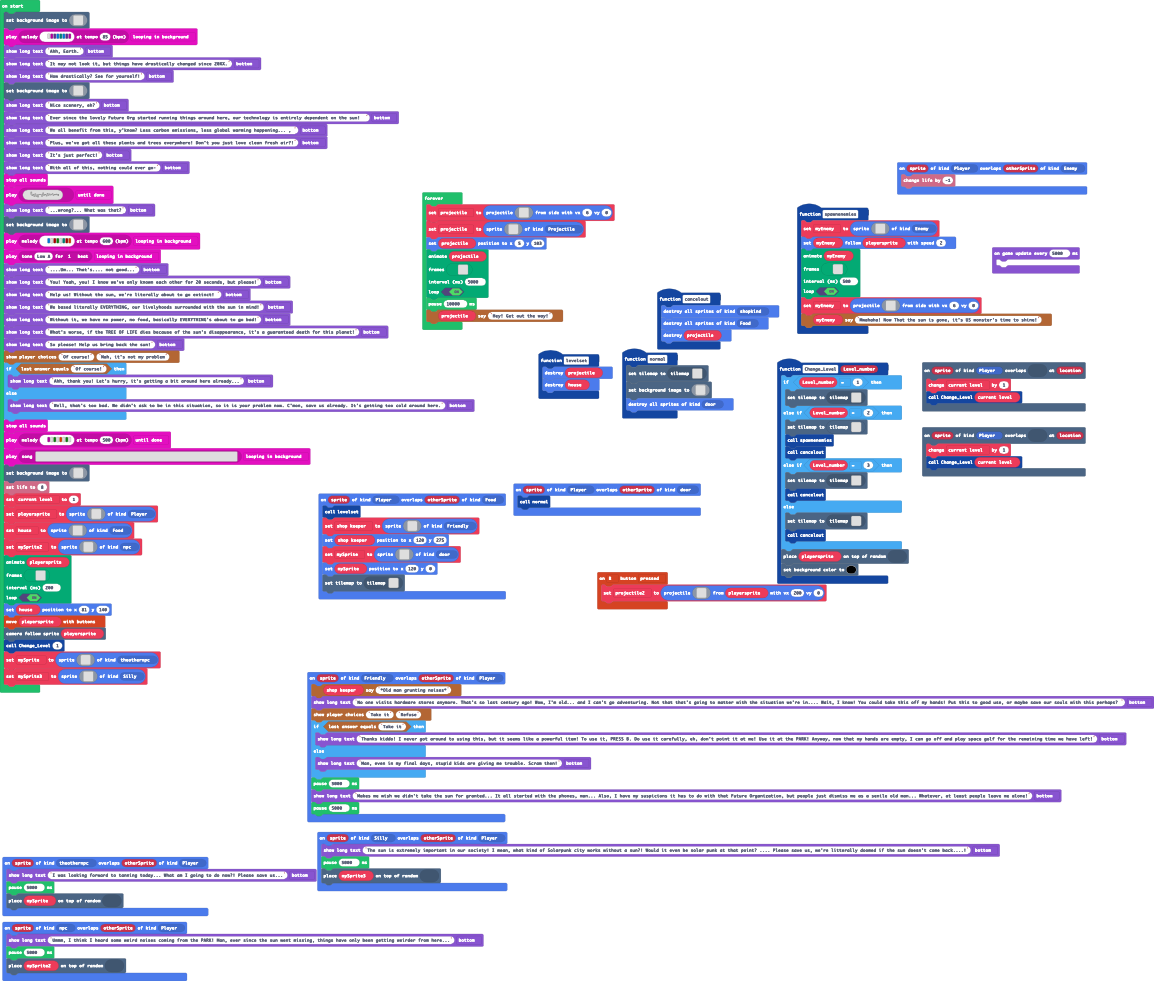
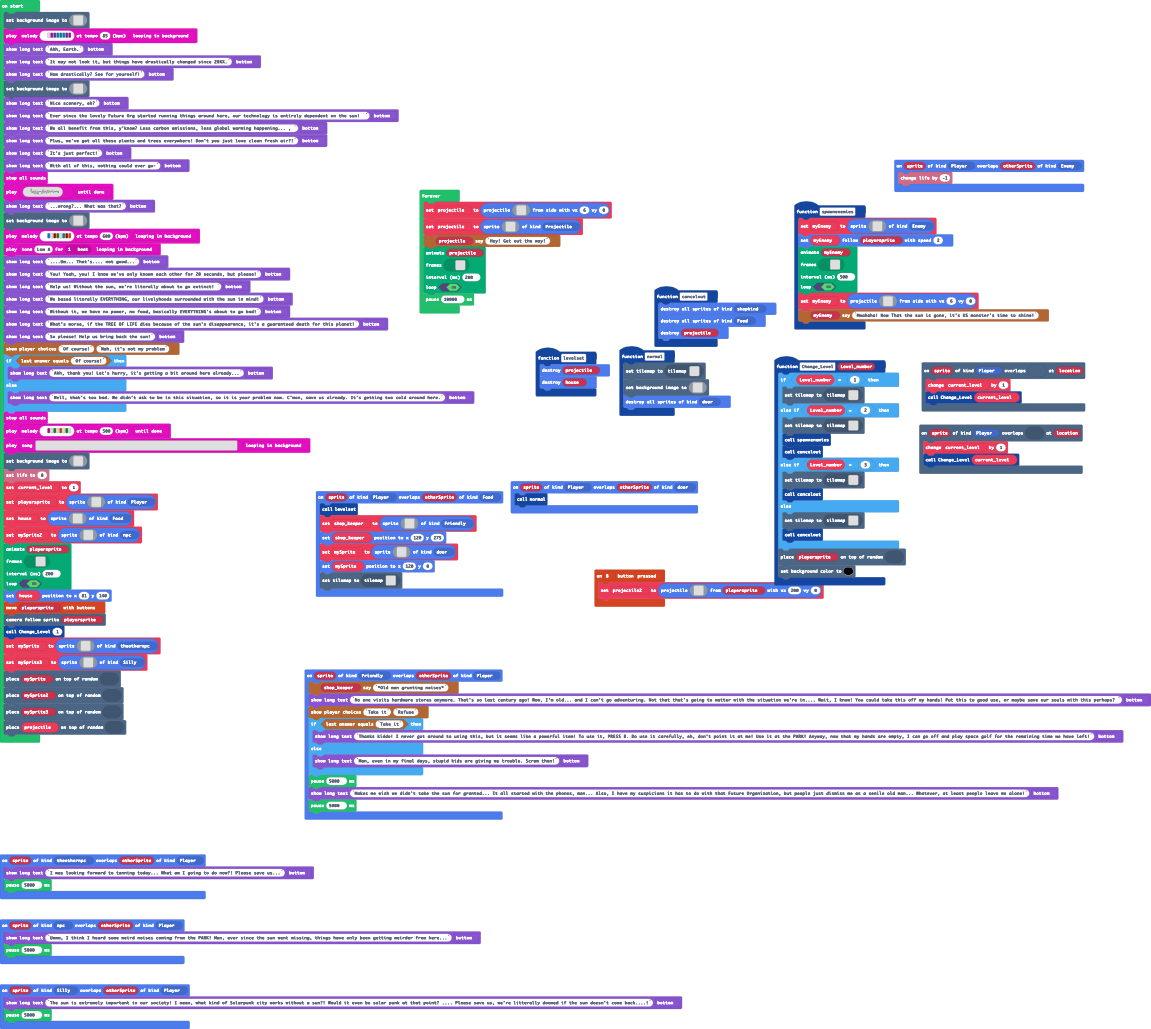
Update main.blocks, main.ts, tilemap.g.jres, tilemap.g.ts

diff --git a/tilemap.g.ts b/tilemap.g.ts
@@ -176,25 +176,6 @@ namespace myTiles {
 . . . . . . . . . . . . . . . . 
 . . . . . . . . . . . . . . . . 
 `, [myTiles.transparency16], TileScale.Sixteen);
-            case "level1":
-            case "level1":return tiles.createTilemap(hex`1000100004040404040404040404040404040404040101050404040404040404050101040404040404040404040404040404040404020404040406060604040404040404040404020406060606060202040404040404040406060606060606020404040404040406060606060606060604040404040404060606060606060606040404040404040406060606060606060404040407040804040606060606060404040404040404040404060606060408040404040404040404040404040404030404040404040402020404040404040404040404040404050202040404040402020404040401010504040404040204040404040404040404040404040404040404040404`, img`
-2 2 2 2 2 2 2 2 2 2 2 2 2 2 2 2 
-2 . . . . . . . . . . . . . . 2 
-2 . . . . . . . . . . . . . . 2 
-2 . . . . . . . . . . . . . . 2 
-2 . . . . . . . . . . . . . . 2 
-. . . . . . . . . . . . . . . 2 
-. . . . . . . . . . . . . . . 2 
-. . . . . . . . . . . . . . . 2 
-. . . . . . . . . . . . . . . 2 
-. . . . . . . . . . . . . . . 2 
-. . . . . . . . . . . . . . . 2 
-. . . . . . . . . . . . . . . 2 
-. . . . . . . . . . . . . . . 2 
-. . . . . . . . . . . . . . . 2 
-2 . . . . . . . . . . . . . . 2 
-2 2 2 2 2 2 2 2 2 2 2 2 2 2 2 2 
-`, [myTiles.transparency16,myTiles.tile12,myTiles.tile5,myTiles.tile3,myTiles.tile32,myTiles.tile33,sprites.castle.tilePath5,myTiles.tile34,myTiles.tile31], TileScale.Sixteen);
             case "level11":
             case "level11":return tiles.createTilemap(hex`1000100000000000000000000000000000000000000000000000000000000000000000000000000000000000000000000000000000000000000000000000000000000000000000000000000000000000000000000000000000000000000000000000000000000000000000000000000000000000000000000000000000000000000000000000000000000000000000000000000000000000000000000000000000000000000000000000000000000000000000000000000000000000000000000000000000000000000000000000000000000000000000000000000000000000000000000000000000000000000000000000000000000000000000000000000000000000`, img`
 . . . . . . . . . . . . . . . . 
@@ -309,25 +290,6 @@ namespace myTiles {
 . . . . . . . . . . . . . . . . 
 . . . . . . . . . . . . . . . . 
 `, [myTiles.transparency16], TileScale.Sixteen);
-            case "level2":
[1 lines of base64/hex data omitted]
-2 2 2 2 2 2 2 . . . 2 2 2 2 2 2 
-2 . . . . . . . . . . . . . . 2 
-2 . . . . . . . . . . . 2 2 . . 
-2 . . . . . . . . . . . . . . . 
-2 . . . . . . . . . . . . . . . 
-2 . . . . . . . . 2 2 . . . . . 
-2 . . . . . . . . . . . . . . . 
-2 . . . . . . . . . . . . . . . 
-2 . . . . . . . . . . . . . . 2 
-2 2 . 2 . 2 . 2 . . . . . . . . 
-2 . . . . . . . . . . . . . . . 
-2 . . . . . . . . 2 . 2 . . . . 
-2 . . . . . . . . . . . . . . 2 
-2 . . . . . . . . . . . . . . 2 
-2 . . . . . . . . . . . . . . 2 
-2 2 2 2 2 2 2 2 2 2 2 2 2 2 2 2 
-`, [myTiles.transparency16,myTiles.tile16,myTiles.tile17,myTiles.tile19,myTiles.tile2,myTiles.tile12,myTiles.tile24,myTiles.tile3,myTiles.tile10,myTiles.tile29,myTiles.tile30,myTiles.tile31,myTiles.tile32,sprites.builtin.forestTiles0,myTiles.tile38,myTiles.tile35], TileScale.Sixteen);
             case "level3":
[1 lines of base64/hex data omitted]
 . . 2 2 . . . . . . . . 2 2 . 
@@ -370,6 +332,63 @@ namespace myTiles {
 . . . . . . . . . . . . . . . . 
 . . . . . . . . . . . . . . . . 
 `, [myTiles.transparency16], TileScale.Sixteen);
+            case "level16":
+            case "level16":return tiles.createTilemap(hex`1000100000000000000000000000000000000000000000000000000000000000000000000000000000000000000000000000000000000000000000000000000000000000000000000000000000000000000000000000000000000000000000000000000000000000000000000000000000000000000000000000000000000000000000000000000000000000000000000000000000000000000000000000000000000000000000000000000000000000000000000000000000000000000000000000000000000000000000000000000000000000000000000000000000000000000000000000000000000000000000000000000000000000000000000000000000000000`, img`
+. . . . . . . . . . . . . . . . 
+. . . . . . . . . . . . . . . . 
+. . . . . . . . . . . . . . . . 
+. . . . . . . . . . . . . . . . 
+. . . . . . . . . . . . . . . . 
+. . . . . . . . . . . . . . . . 
+. . . . . . . . . . . . . . . . 
+. . . . . . . . . . . . . . . . 
+. . . . . . . . . . . . . . . . 
+. . . . . . . . . . . . . . . . 
+. . . . . . . . . . . . . . . . 
+. . . . . . . . . . . . . . . . 
+. . . . . . . . . . . . . . . . 
+. . . . . . . . . . . . . . . . 
+. . . . . . . . . . . . . . . . 
+. . . . . . . . . . . . . . . . 
+`, [myTiles.transparency16], TileScale.Sixteen);
+            case "level1":
+            case "level1":return tiles.createTilemap(hex`1000100004040404040404040404040404040404040101050404040404040404050101040404040404040404040404040404040404020404040406060604040404040404040404020406060606060202040404040404040406060606060606020404040404040406060606060606060604040404040404060606060606060606040404040606040406060606060606060404040407060606060606060606060404040404060604040404060606060408040404040404040404040404040404030404040404040402020404040404040404040404040404050202040404040402020404040401010504040404040204040404040404040404040404040404040404040404`, img`
+2 2 2 2 2 2 2 2 2 2 2 2 2 2 2 2 
+2 . . . . . . . . . . . . . . 2 
+2 . . . . . . . . . . . . . . 2 
+2 . . . . . . . . . . . . . . 2 
+2 . . . . . . . . . . . . . . 2 
+. . . . . . . . . . . . . . . 2 
+. . . . . . . . . . . . . . . 2 
+. . . . . . . . . . . . . . . 2 
+. . . . . . . . . . . . . . . 2 
+. . . . . . . . . . . . . . . 2 
+. . . . . . . . . . . . . . . 2 
+. . . . . . . . . . . . . . . 2 
+. . . . . . . . . . . . . . . 2 
+. . . . . . . . . . . . . . . 2 
+2 . . . . . . . . . . . . . . 2 
+2 2 2 2 2 2 2 2 2 2 2 2 2 2 2 2 
+`, [myTiles.transparency16,myTiles.tile12,myTiles.tile5,myTiles.tile3,myTiles.tile32,myTiles.tile33,sprites.castle.tilePath5,myTiles.tile34,myTiles.tile31], TileScale.Sixteen);
+            case "level2":
[1 lines of base64/hex data omitted]
+2 2 2 2 2 2 2 . . . 2 2 2 2 2 2 
+2 . . . . . . . . . . . . . . 2 
+2 . . . . . . . . . . . 2 2 . . 
+2 . . . . . . . . . . . . . . . 
+2 . . . . . . . . . . . . . . . 
+2 . . . . . . . . 2 2 . . . . . 
+2 . . . . . . . . . . . . . . . 
+2 . . . . . . . . . . . . . . . 
+2 . . . . . . . . . . . . . . 2 
+2 2 . 2 . 2 . 2 . . . . . . . . 
+2 . . . . . . . . . . . . . . . 
+2 . . . . . . . . 2 . 2 . . . . 
+2 . . . . . . . . . . . . . . 2 
+2 . . . . . . . . . . . . . . 2 
+2 . . . . . . . . . . . . . . 2 
+2 2 2 2 2 2 2 2 2 2 2 2 2 2 2 2 
+`, [myTiles.transparency16,myTiles.tile16,myTiles.tile17,myTiles.tile19,myTiles.tile2,myTiles.tile12,myTiles.tile24,myTiles.tile3,myTiles.tile10,myTiles.tile29,myTiles.tile30,myTiles.tile31,myTiles.tile32,sprites.builtin.forestTiles0,myTiles.tile38,myTiles.tile35,myTiles.tile6], TileScale.Sixteen);
         }
         return null;
     })

diff --git a/main.ts b/main.ts
@@ -195,7 +195,6 @@ function Change_Level (Level_number: number) {
 sprites.onOverlap(SpriteKind.npc, SpriteKind.Player, function (sprite, otherSprite) {
     game.showLongText("Ummm, I think I heard some weird noises coming from the PARK! Man, ever since the sun went missing, things have only been getting weirder from here...", DialogLayout.Bottom)
     pause(5000)
-    tiles.placeOnRandomTile(mySprite2, assets.tile`myTile28`)
 })
 function cancelout () {
     sprites.destroyAllSpritesOfKind(SpriteKind.shopkind)
@@ -205,7 +204,6 @@ function cancelout () {
 sprites.onOverlap(SpriteKind.theothernpc, SpriteKind.Player, function (sprite, otherSprite) {
     game.showLongText("I was looking forward to tanning today... What am I going to do now?! Please save us...", DialogLayout.Bottom)
     pause(5000)
-    tiles.placeOnRandomTile(mySprite, assets.tile`myTile27`)
 })
 scene.onOverlapTile(SpriteKind.Player, assets.tile`myTile8`, function (sprite, location) {
     current_level += 1
@@ -385,7 +383,6 @@ function normal () {
 sprites.onOverlap(SpriteKind.Silly, SpriteKind.Player, function (sprite, otherSprite) {
     game.showLongText("The sun is extremely important in our society! I mean, what kind of Solarpunk city works without a sun?! Would it even be solar punk at that point? .... Please save us, we're litterally doomed if the sun doesn't come back....!", DialogLayout.Bottom)
     pause(5000)
-    tiles.placeOnRandomTile(mySprite3, assets.tile`transparency16`)
 })
 sprites.onOverlap(SpriteKind.Player, SpriteKind.Enemy, function (sprite, otherSprite) {
     info.changeLifeBy(-1)
@@ -394,9 +391,7 @@ let myEnemy: Sprite = null
 let projectile2: Sprite = null
 let shop_keeper: Sprite = null
 let projectile: Sprite = null
-let mySprite3: Sprite = null
 let mySprite: Sprite = null
-let mySprite2: Sprite = null
 let house: Sprite = null
 let playersprite: Sprite = null
 let current_level = 0
@@ -989,7 +984,7 @@ house = sprites.create(img`
     .....64eee444c66f4e44e44e44e44ee66c444eee46.....
     ......6ccc666c66e4e44e44e44e44ee66c666ccc6......
     `, SpriteKind.Food)
-mySprite2 = sprites.create(img`
+let mySprite2 = sprites.create(img`
     . . . . . e e e e e . . . . . . 
     . . . . e e e e e e e . . . . . 
     . . . . e e 4 e 4 e e . . . . . 
@@ -1103,7 +1098,7 @@ mySprite = sprites.create(img`
     . . . . . f f f f f . . . . . . 
     . . . . . . . . . . . . . . . . 
     `, SpriteKind.theothernpc)
-mySprite3 = sprites.create(img`
+let mySprite3 = sprites.create(img`
     . . . . . e e e e e . . . . . . 
     . . . . e e e e e e e . . . . . 
     . . . . e e 4 e 4 e e . . . . . 
@@ -1121,9 +1116,10 @@ mySprite3 = sprites.create(img`
     . . . . . f f f f f . . . . . . 
     . . . . . . . . . . . . . . . . 
     `, SpriteKind.Silly)
-game.onUpdateInterval(5000, function () {
-	
-})
+tiles.placeOnRandomTile(mySprite, assets.tile`myTile27`)
+tiles.placeOnRandomTile(mySprite2, assets.tile`myTile28`)
+tiles.placeOnRandomTile(mySprite3, assets.tile`myTile36`)
+tiles.placeOnRandomTile(projectile, assets.tile`myTile14`)
 forever(function () {
     projectile = sprites.createProjectileFromSide(img`
         . . . . . . . . . . . . . . . . 
@@ -1161,7 +1157,7 @@ forever(function () {
         . . . f f f . . . . f f f f . . 
         . . . . . . . . . . . . . . . . 
         `, SpriteKind.Projectile)
-    projectile.setPosition(5, 103)
+    story.spriteSayText(projectile, "Hey! Get out the way!")
     animation.runImageAnimation(
     projectile,
     [img`
@@ -1199,9 +1195,8 @@ forever(function () {
         e f b b f e e e f b b f e e e e 
         . f c c b f e e f c c b f e e . 
         `],
-    5000,
+    200,
     true
     )
     pause(10000)
-    story.spriteSayText(projectile, "Hey! Get out the way!")
 })
